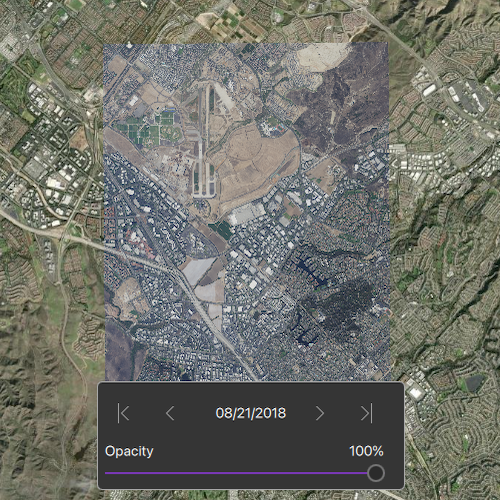
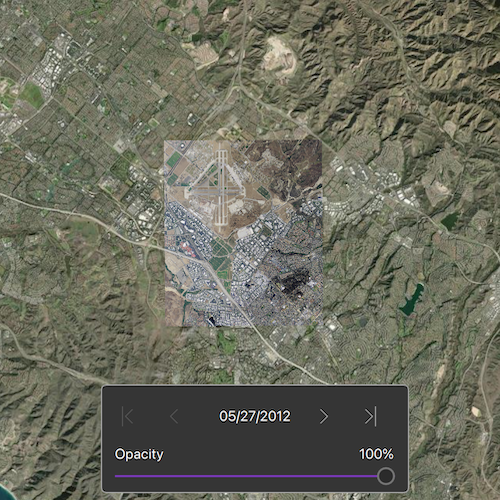
Center slider and buttons and update screenshot.

diff --git a/CppSamples/DisplayInformation/FilterMosaicDatasetRasterByTimeExtent/FilterMosaicDatasetRasterByTimeExtent.qml b/CppSamples/DisplayInformation/FilterMosaicDatasetRasterByTimeExtent/FilterMosaicDatasetRasterByTimeExtent.qml
@@ -95,6 +95,7 @@ Item {
                 }
 
                 Item {
+                    anchors.horizontalCenter: parent.horizontalCenter
                     width: opacitySlider.width
                     height: opacityLabel.height
 
@@ -111,6 +112,7 @@ Item {
 
                 Slider {
                     id: opacitySlider
+                    anchors.horizontalCenter: parent.horizontalCenter
                     width: 280
                     enabled: !model.loading && model.loadError.length === 0 && model.timestampCount > 0
                     from: 0
@@ -121,6 +123,7 @@ Item {
                 }
 
                 Label {
+                    anchors.horizontalCenter: parent.horizontalCenter
                     width: opacitySlider.width
                     visible: model.loadError.length > 0
                     text: model.loadError
